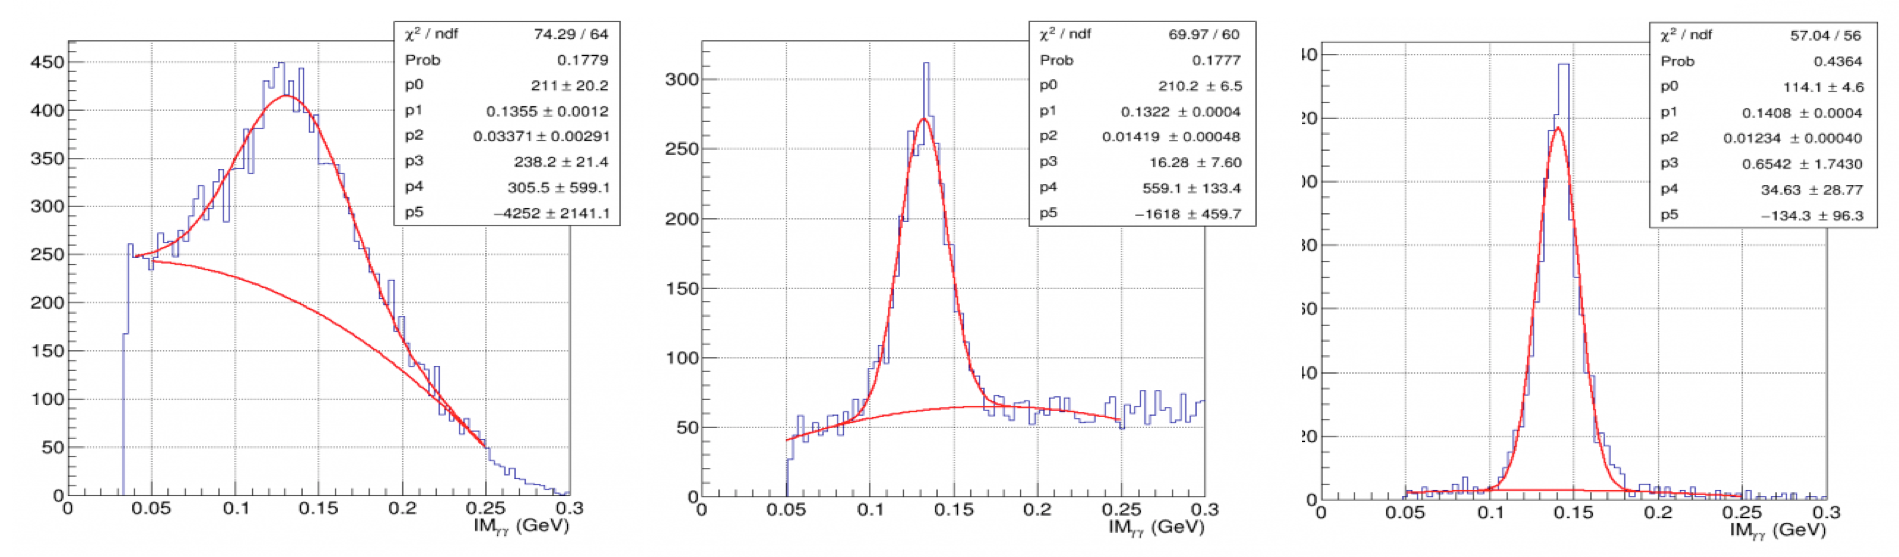
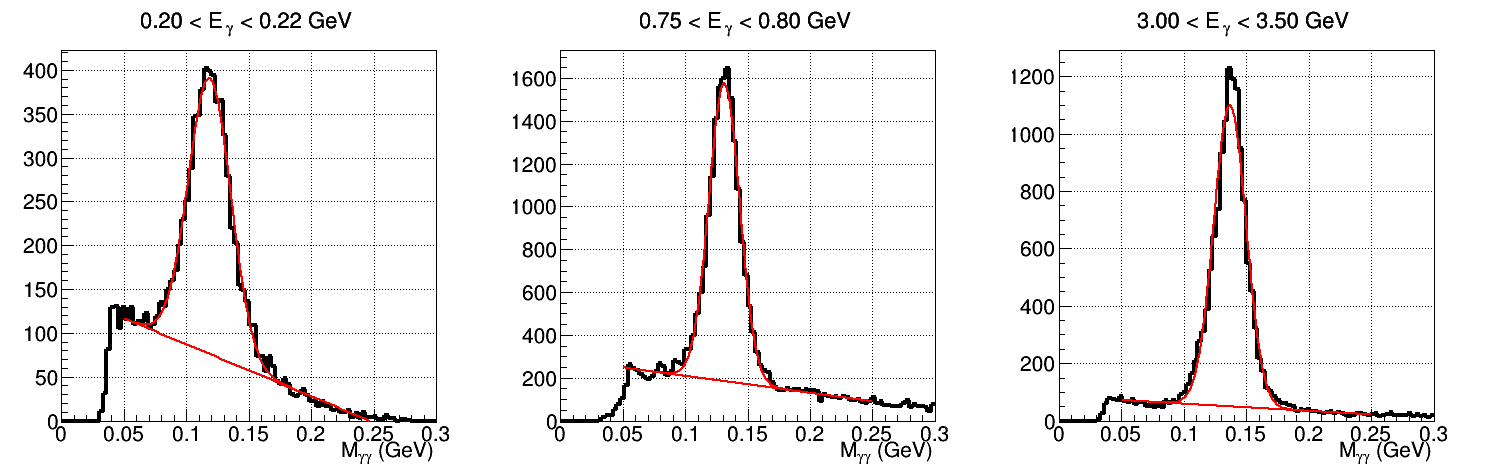
Replace Fig. 31 and caption update

diff --git a/ec/performance.tex b/ec/performance.tex
@@ -112,7 +112,7 @@ and background rejection.
 
 \begin{figure}[t]
 \centering
-\includegraphics[width=0.7\columnwidth,keepaspectratio]{img/opa.png}
+\includegraphics[width=0.8\columnwidth,keepaspectratio]{img/opa.png}
 \caption[]{Opening angle of the $\pi^0 \to \gamma \gamma$ decay vs. the energy asymmetry $X$ of
   the two photons, shown for the range of $\pi^0$ energies measured in CLAS12.}
 \label{fig:opa}
@@ -130,8 +130,7 @@ where $E_1$ and $E_2$ are the energies of the two photon showers in the ECAL and
 angle. The $\pi^0$ energy can be determined from these same measurements in terms of the photon energy
 asymmetry $X$:
 \begin{equation}
-E^2_\pi = \frac{m^2_\pi}{(1-\cos \theta_{12})(1-X^2)}  \\
-X=\frac{E_1-E_2}{E_1+E_2}.
+E^2_\pi = \frac{m^2_\pi}{(1-\cos \theta_{12})(1-X^2)} \;\;\; X = \frac{E_1-E_2}{E_1+E_2}.
 \label{eq:epi}
 \end{equation}
 Here $m_\pi$ corresponds to the physical $\pi^0$ mass of 134.98~MeV. The reaction kinematics following from
@@ -143,18 +142,18 @@ of the ECAL.
 
 \begin{figure}[h]
 \centering
-\includegraphics[width=1.0\columnwidth,height=0.3\textwidth]{img/fx-pi0-fits.png}
+\includegraphics[width=1.0\columnwidth,keepaspectratio]{img/fx-pi0-fits.png}
 \caption[]{Empirical fits to both the combinatorial background and the invariant mass peaks reconstructed from
   two photons detected in the same sector of the ECAL. These data represent symmetric
   $\pi^0 \to \gamma \gamma$ decays where both photons are within the energy bins indicated in the plots. The
-  fits shown are for photon energies of $E_\gamma$ = 0.25 (left), 0.75 (middle), and 2.75~GeV (right).}
+  fits shown are for photon energies of $E_\gamma$ = 0.21 (left), 0.77 (middle), and 3.25~GeV (right).}
 \label{fig:fx-pi0-fits}
 \end{figure}
 
 From Eq.~\ref{eq:ivm} the following expression for the invariant mass resolution can be derived, expressed in
 terms of the uncertainties of the measured quantities:
 \begin{equation}
-  \sigma_m \!\!=\!\! \frac{m_{\pi}}{2}\left[\left(\frac{\sigma(E_1)}{E_1}\right)^2 \!\!+\!\!
+  \sigma_m = \frac{m_{\pi}}{2}\left[\left(\frac{\sigma(E_1)}{E_1}\right)^2 \!\! + 
     \left(\frac{\sigma(E_2)}{E_2}\right)^2 \!\!
     + \sigma^2_{\theta_{12}}\frac{\sin^2 \theta_{12}}{(1-\cos \theta_{12})^2}\right]^{1/2}
 \label{eq:sigmam1}
